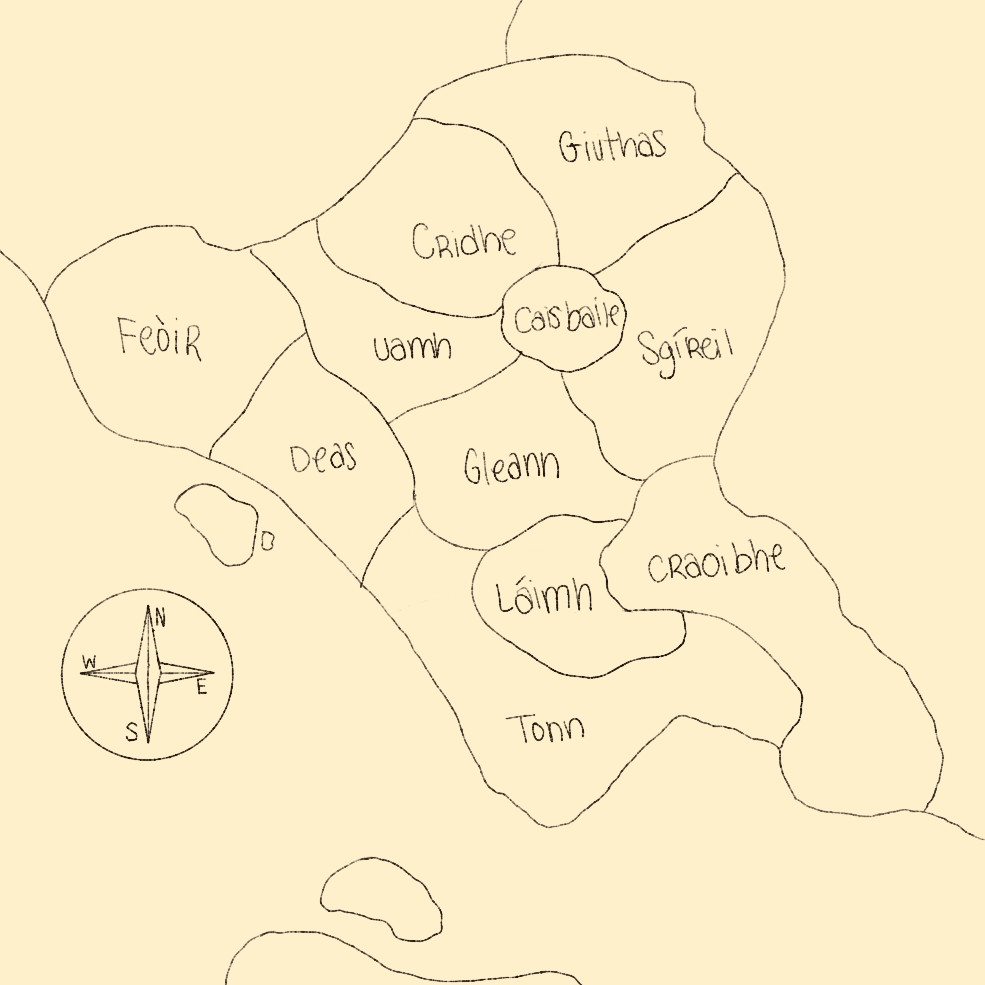
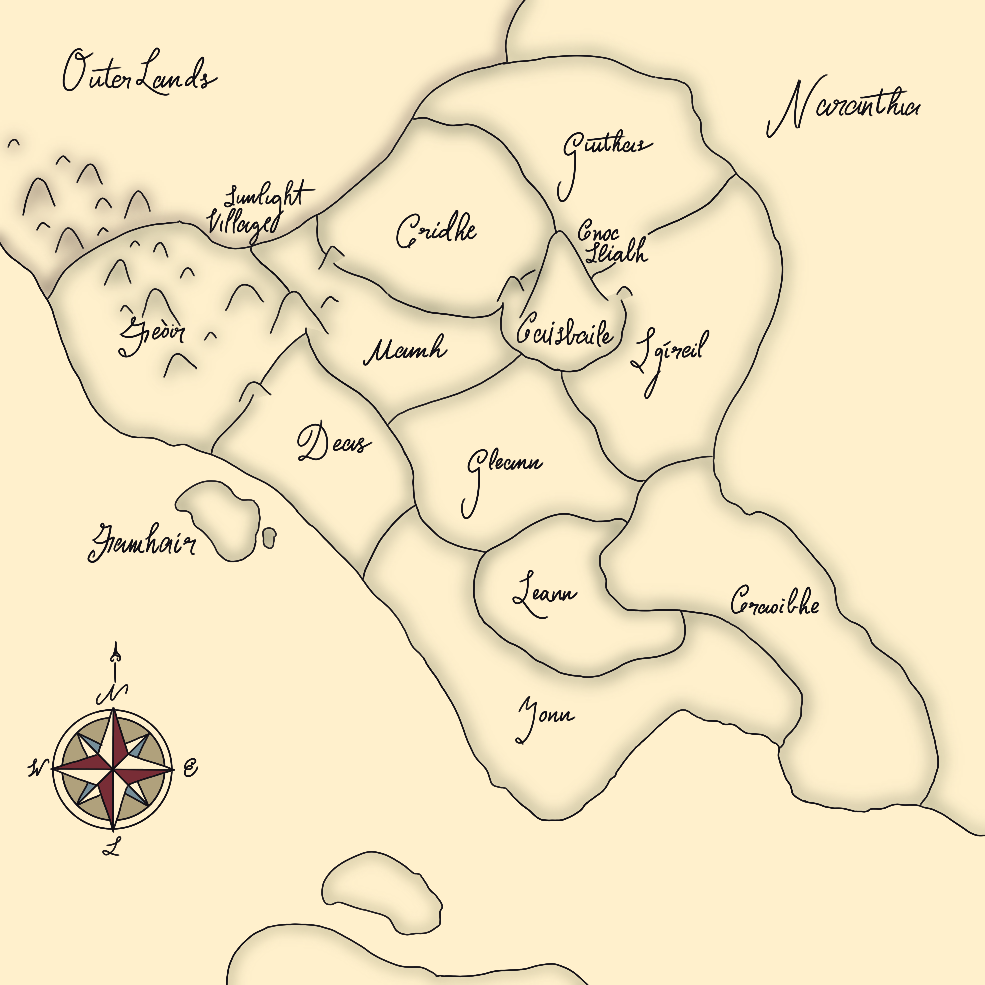
image additions for maps and stuff
and edits to the ghaniun bil'alwan page :-)

diff --git a/other-kingdoms/ghaniun-bil-alwan.html b/other-kingdoms/ghaniun-bil-alwan.html
@@ -12,6 +12,35 @@
 
             .subtitle { margin-top: 15px }
             a.name:link, a.name:visited, a.name:hover, a.name:active { color: #DCC797; }
+            
+            /* makes it so you can put the text NEXT to the image. revolutionary! */
+            .image-break-container {
+                display: flex;
+                flex-direction: row;
+                align-items: center;
+                padding: 0;
+                margin: 0;
+            }
+
+            /* image break box for the image */
+            .image-break-img {
+                display: flex;
+                flex-direction: column;
+                width: 50%;
+                align-items: center;
+            }
+
+            /* image break box for the text */
+            .image-break-p {
+                display: flex;
+                flex-direction: column;
+                justify-content: flex-start;
+                align-content: flex-start;
+                width: 50%;
+                height: 100%;
+                padding: 0;
+                margin: 0; /*i swear to god i'm going to kill */
+            }
         </style>
     </head>
 
@@ -35,12 +64,17 @@
                         <p><b>Other Languages: </b>Melogranian, Գաղտնիք (Gaghtnik), Foraoisan, Finaporean, Tafod</p>
                         <p><b>Currency: </b>Shells</p>
                     </div>
+
+                    <div class="sub-sidebar-left">
+                        <p style="line-height: 0; text-align: center">World Map</p>
+                        <div class="image-jail" style="width: 100%"><a href="images/maps/tir-na-nog-map.png"><img src="images/maps/tir-na-nog-map.png" alt="A map of a continent, as well as several different island nations. There is the Outer Lands in the top left corner, with Sunlight Village labelled on the edge of the Dappled Forest (Capitol: Caisbaile), off the coast of which is an island labeled Famhair. Next to the Dappled Forest is the large kingdom of Naranthia (Capitol: Kolona). South of Naranthia is a large peninsula called Coaste de Melgrano, and southeast of that is Ghaniun Bial'alwan. South of the Dappled Forest is the Verdonada Sea, which is between that and Finapor. At the bottom of the map is a small collection of islands called the Fulican Archipelago."></a></div>
+                    </div>
                 </div>
 
                 <div class="sidebar-right">
                     <!-- History -->
                     <h2><a class="name" name="history">History</a></h2>
-                    <p class="long-paragraph">Ghaniun Bil'alwan was originally inhabited by a small group of <a class="hidden" href="../species/sirens.html">sirens</a> who had come from the northeastern Fulican Archipelago. Starting in the 12th century, elves fleeing Ossocanti rule in La Costa de Melograno began to immigrate there. The sirens, who already had an established port and society on the land, welcomed the elves in, permitting them to establish their own subculture in the capitol of Alyaqut (الياقوت). When the First Elven War started in 1256, many fae and elves fleeing Naranthia and the Dappled Forest found themselves there. While the Naranthian elves quickly integrated into the Costan-Ghanian elven culture in Alyaqut and other municipalities on Ghaniun Bil'alwan, the Seelie fae of the Dappled Forest isolated themselves, believing the sirens and the elves of the island to be untrustworthy.</p>
+                    <p class="long-paragraph">Ghaniun Bil'alwan (غَني بالألوان) was originally inhabited by a small group of <a class="hidden" href="../species/sirens.html">sirens</a> who had come from the northeastern Fulican Archipelago. Starting in the 12th century, elves fleeing Ossocanti rule in La Costa de Melograno began to immigrate there. The sirens, who already had an established port and society on the land, welcomed the elves in, permitting them to establish their own subculture in the capitol of Alyaqut (الياقوت). When the First Elven War started in 1256, many fae and elves fleeing Naranthia and the Dappled Forest found themselves there. While the Naranthian elves quickly integrated into the Costan-Ghanian elven culture in Alyaqut and other municipalities on Ghaniun Bil'alwan, the Seelie fae of the Dappled Forest isolated themselves, believing the sirens and the elves of the island to be untrustworthy.</p>
                     <!-- something about the fae ending up integrating a little bit while still keeping distinct beliefs that influenced the culture already there? -->
                     
                     <!-- Culture -->
@@ -65,32 +99,38 @@
                     <p class="long-paragraph">Due to its size, and the integration of non-siren groups, Ghaniun Bil'alwan has a structured government based off of governance structures imported by elves in the 12th century. The island is ruled by group of 5 viziers (Kalimat 'Ugni: وزير; Gaghtnik: վեզիր), who are all elected by the people of their sector. The five sectors of the island are named after the municpality there, but their borders often expand past that of the municpality into the surrounding forests.</p>
                     
                     <h3>Sectors</h3>
-                    <ul>
-                        <li><b>Alyaqut</b></li>
-                        <li style="margin-left: 20px">Kalimat 'Ugni: الياقوت</li>
-                        <li style="margin-left: 20px">Gaghtnik: Ալյակուտ</li>
-                        <li style="margin-left: 20px">Vizier: Alim Hicranzadeh</li>
+                    <div class="image-break-container">
+                        <div class="image-break-p">
+                            <ul>
+                                <li><b>Alyaqut</b></li>
+                                <li style="margin-left: 20px">Kalimat 'Ugni: الياقوت</li>
+                                <li style="margin-left: 20px">Gaghtnik: Ալյակուտ</li>
+                                <li style="margin-left: 20px">Vizier: Alim Hicranzadeh</li>
+                                
+                                <li><b>Easal</b></li>
+                                <li style="margin-left: 20px">Kalimat 'Ugni: عَسَل</li>
+                                <li style="margin-left: 20px">Gaghtnik: Ասալ</li>
+                                <li style="margin-left: 20px">Vizier: Bulut Narinzadeh</li>
+                                
+                                <li><b>Alsanawbar</b></li>
+                                <li style="margin-left: 20px">Kalimat 'Ugni: الصنوبر</li>
+                                <li style="margin-left: 20px">Gaghtnik: Ալսանաբար</li>
+                                <li style="margin-left: 20px">Vizier: Fidan Yesimzadeh</li>
+                                
+                                <li><b>Qaws</b></li>
+                                <li style="margin-left: 20px">Kalimat 'Ugni: قوس</li>
+                                <li style="margin-left: 20px">Gaghtnik: Կաուս</li>
+                                <li style="margin-left: 20px">Vizier: Nermin Sedazadeh</li>
+                                
+                                <li><b>Eamwd</b></li>
+                                <li style="margin-left: 20px">Kalimat 'Ugni: عَمْود</li>
+                                <li style="margin-left: 20px">Gaghtnik: Ամուդ</li>
+                                <li style="margin-left: 20px">Vizier: Katar Varduhiyan</li>
+                            </ul>
+                        </div>
                         
-                        <li><b>Easal</b></li>
-                        <li style="margin-left: 20px">Kalimat 'Ugni: عَسَل</li>
-                        <li style="margin-left: 20px">Gaghtnik: Ասալ</li>
-                        <li style="margin-left: 20px">Vizier: Bulut Narinzadeh</li>
-                        
-                        <li><b>Alsanawbar</b></li>
-                        <li style="margin-left: 20px">Kalimat 'Ugni: الصنوبر</li>
-                        <li style="margin-left: 20px">Gaghtnik: Ալսանաբար</li>
-                        <li style="margin-left: 20px">Vizier: Fidan Yesimzadeh</li>
-                        
-                        <li><b>Qaws</b></li>
-                        <li style="margin-left: 20px">Kalimat 'Ugni: قوس</li>
-                        <li style="margin-left: 20px">Gaghtnik: Կաուս</li>
-                        <li style="margin-left: 20px">Vizier: Nermin Sedazadeh</li>
-                        
-                        <li><b>Eamwd</b></li>
-                        <li style="margin-left: 20px">Kalimat 'Ugni: عَمْود</li>
-                        <li style="margin-left: 20px">Gaghtnik: Ամուդ</li>
-                        <li style="margin-left: 20px">Vizier: Katar Varduhiyan</li>
-                    </ul>
+                        <div class="image-break-img"><img src="../images/maps/ghaniun-bil-alwan-map.png" alt="A map of two islands with a compas in the top left corner. In the top right corner, the map is titled 'غَني بالألوان' with the subtitle 'Ghaniun Bil-alwan.' The northern island is small, and labeled عَمْود/Eamwd. The southern island is large and divided into four parts. Going clockwise from the top left are الياقوت/Alyaqut, which has a smaller label in the northern area for ميناء الياقوت/Port of Alyaqut; قوس/Qaws; عَسَل/Easal; and الصنوبر/Alsanawbar."></div>
+                    </div>
                 </div>
             </div>
         </div>
